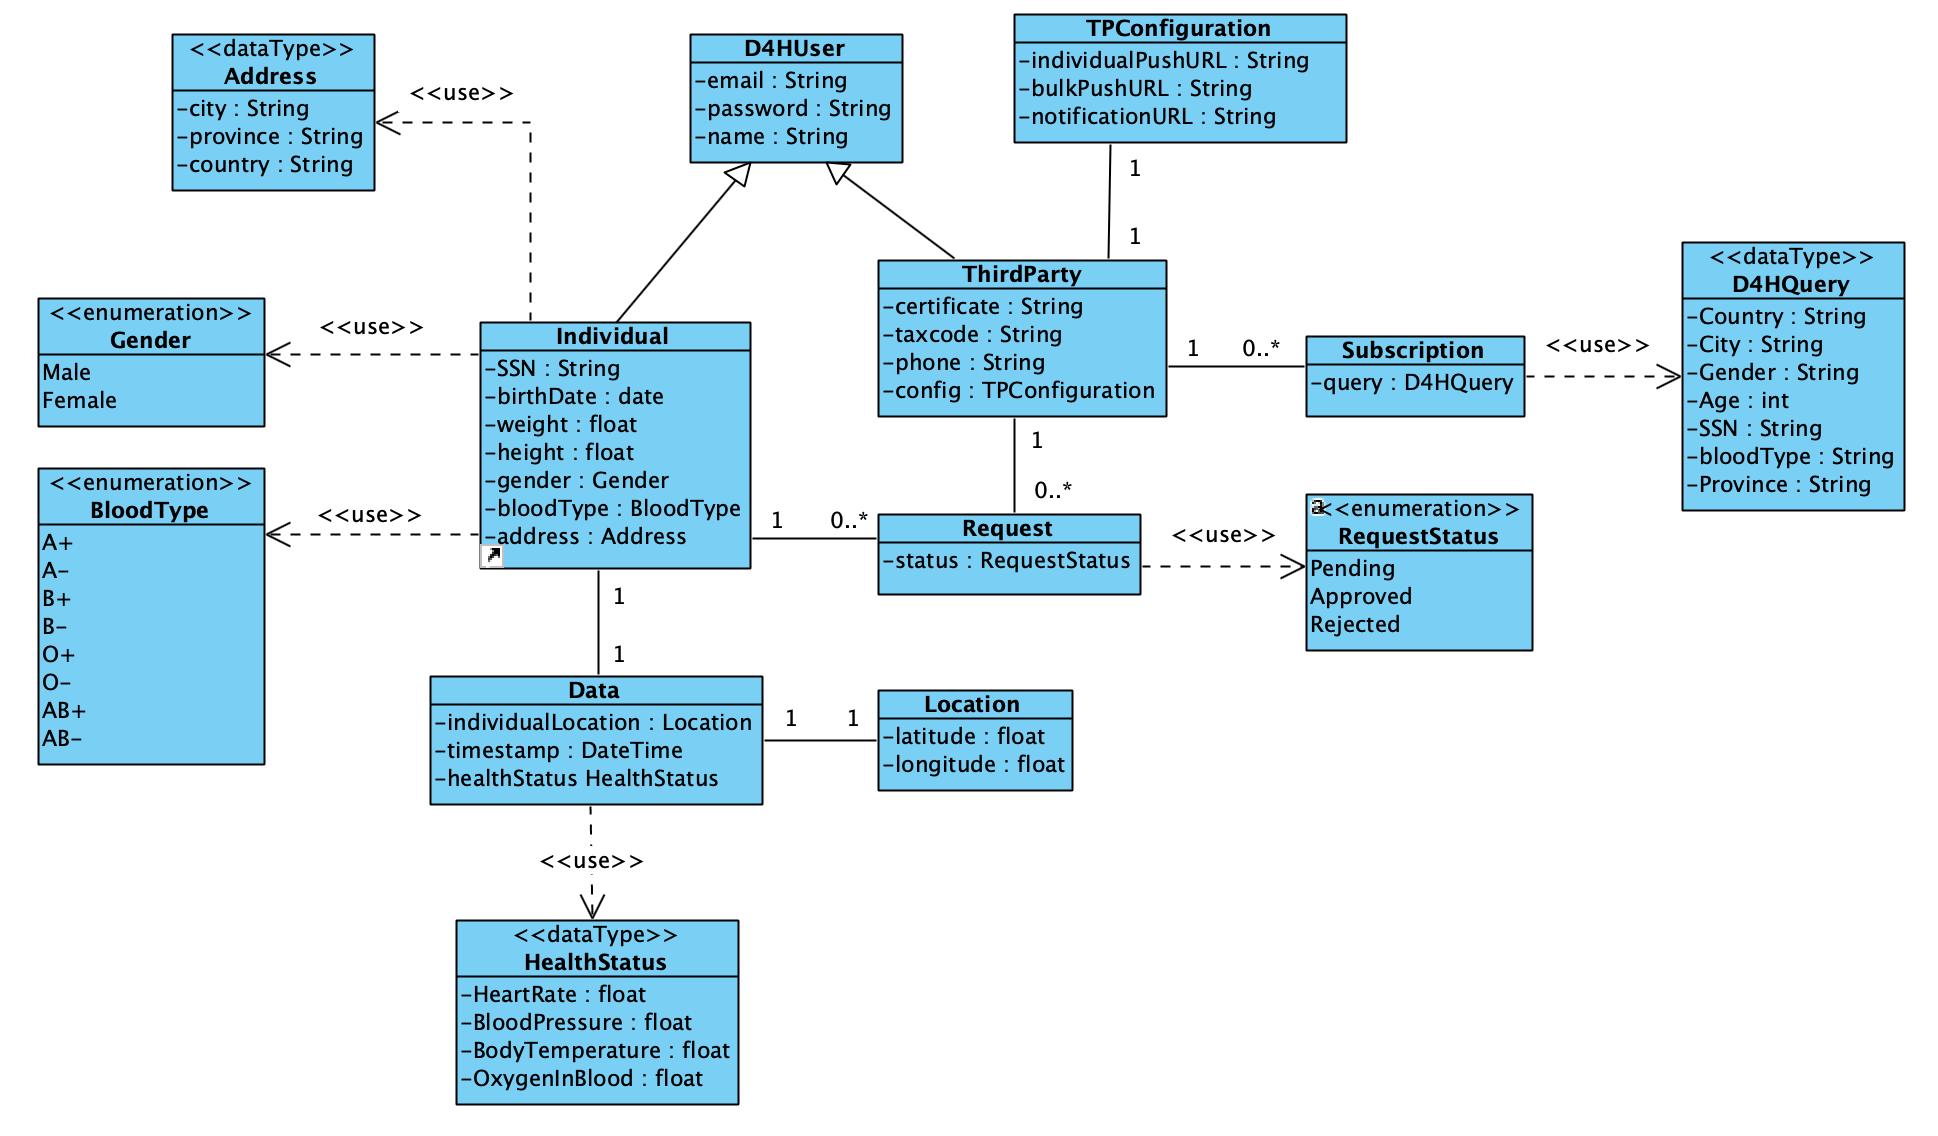
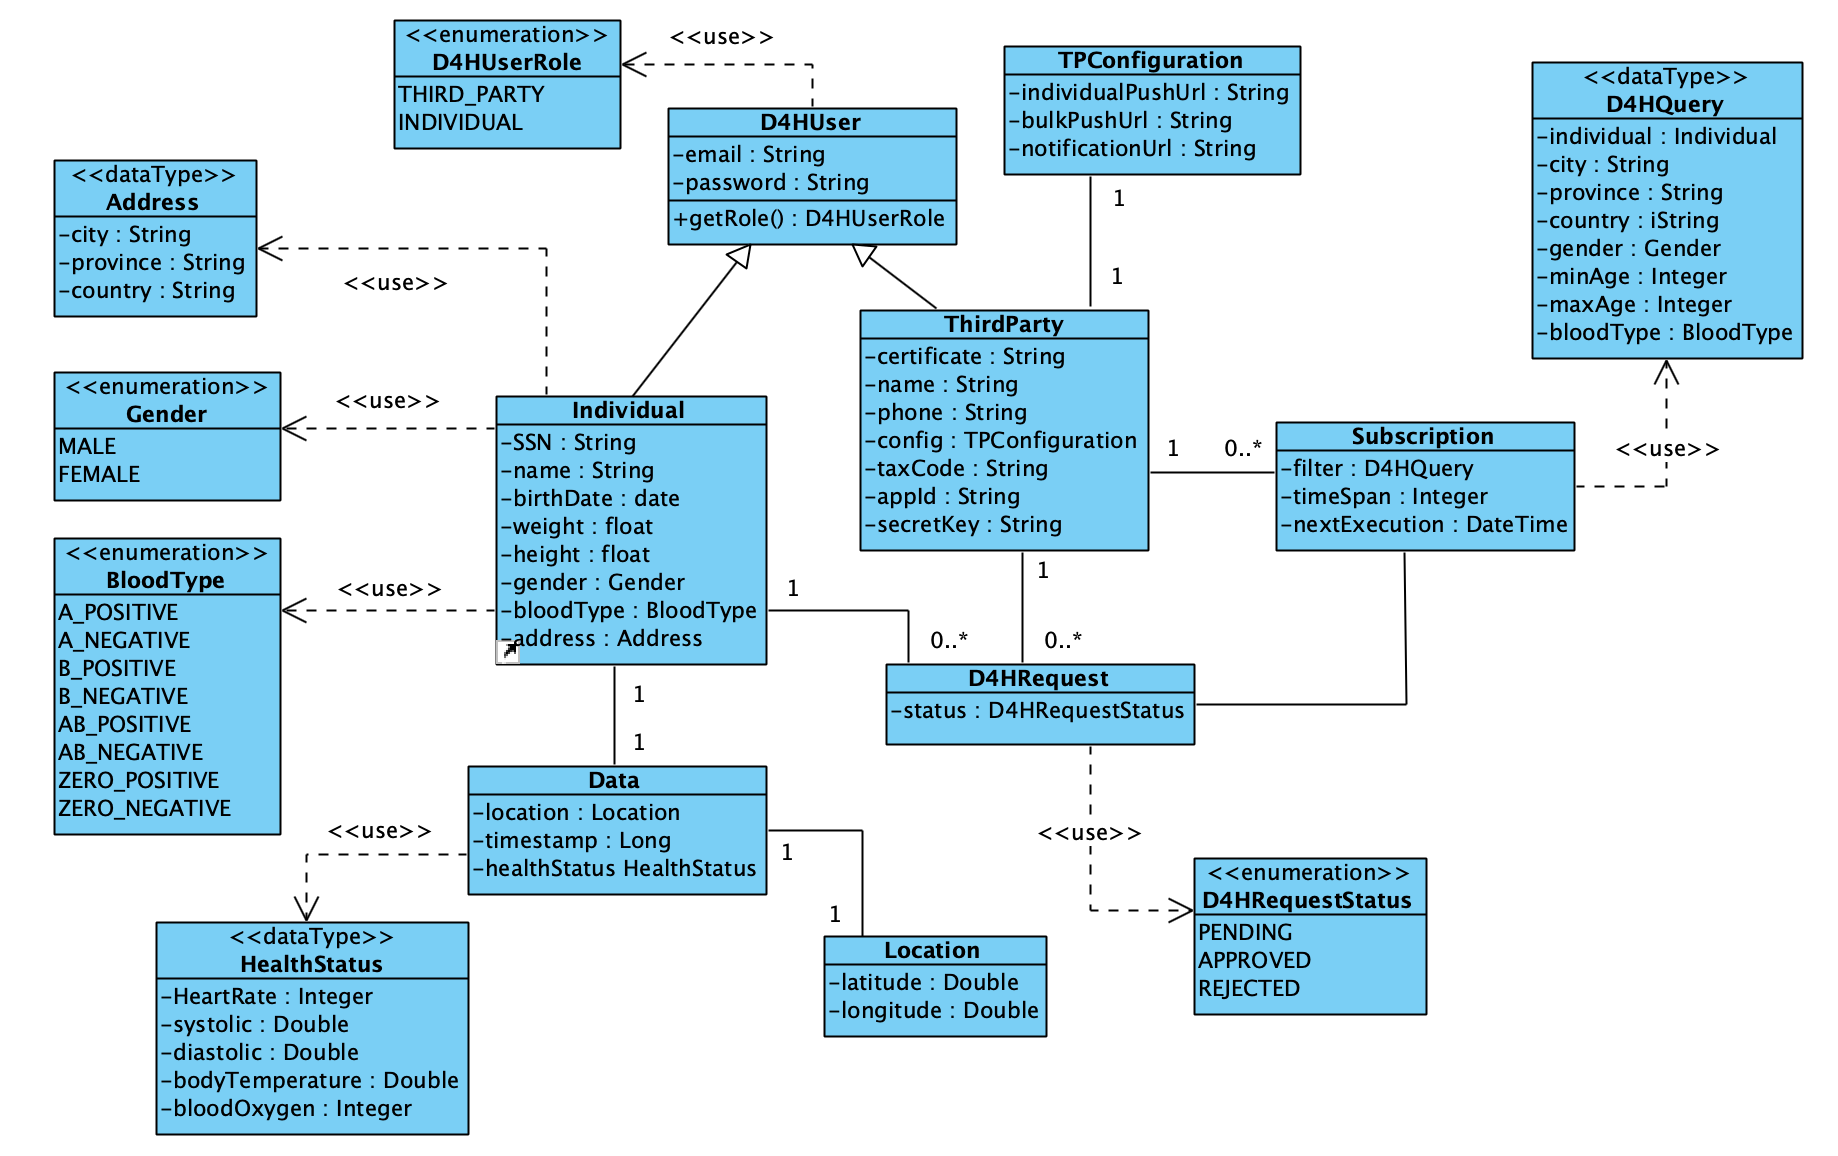
DD: update d4h_class diagram and explanation

diff --git a/DD/DD.tex b/DD/DD.tex
@@ -171,6 +171,7 @@ interface within the next five seconds. The health care service reaction time ca
 		\item{\textbf{Anonymize}}: The action of anonymize means that an individual’s identity cannot
 be inferred using the available data.
 		\item{\textbf{Parameter out of its normal range}}: Meaning that the parameter is under or above a defined threshold. 
+		\item{\textbf{Filter}}
 	\end{itemize}
 	
 	\subsection{Acronyms}
@@ -979,15 +980,19 @@ In the previous section, an architectural landscape of D4H, ASOS and T4R was pro
 	As explained in the RASD, the whole data model of TrackMe up to now will be treated as a "black box", this means \textbf{D4H} will have a local copy of the \textit{basic information} and \textit{collected data} only of users who activated this service. The classes considered in D4H, their attributes, and relationships are shown in Figure \ref{fig:Data4Help Class Diagram}.
 	
 	\begin{itemize}
-		\item{\textbf{User}}: basic attributes of all users interacting with the system.
-		\item{\textbf{Individual}}: users wearing the devices.
-		\item{\textbf{Data}}: health status and location collected from devices.
-		\item{\textbf{ThirdParty}}: companies requesting data of individuals or bulk data. For registering, all third parties must provide a certificate to verify that it is a legally constituted company.
-		\item{\textbf{TPConfiguration}}: an important issue to tackle is the way in which the system will communicate to third parties to send them notifications or the data they request. To send information regarding saved queries, third parties will be asked to provide three endpoints,
-	 \textit{individualpushURL}, \textit{bulkPushURL} and \textit{notificationURL}.
-		\item{\textbf{Request}}: third parties can request data of a given individual. Each request has an associated \textit{status}, initially is \textit{pending} and can become either \textit{rejected} or \textit{approved} according to to whether the individual accepts or not. 
-		\textit{Requests for bulk data} are treated differently. The only constraints to provide that data to third parties are managed by the system (if they do not hold the third party is notified)
-		\item{\textbf{Subscription}}:  third parties can \textit{subscribe} to receive new data, then the query of the search they did needs to be stored. \\
+		\item{\textbf{D4HUser}}: credentials of all users interacting with the system.
+		\item{\textbf{Individual}}: main attributes of users wearing the devices.
+		\item{\textbf{Data}}: health status, location and timestamp collected from devices.
+		\item{\textbf{ThirdParty}}: companies requesting data of individuals or bulk data. For registering, all third parties must provide a certificate to verify that it is a legally constituted company (it was assumed that there is a mechanism capable of doing this checking).
+		
+		\item{\textbf{TPConfiguration}}: an important issue to tackle is the way in which the system will communicate to third parties to send them notifications or data they request. Then, they are asked to provide three endpoints,
+	 \textit{individualpushUrl}, \textit{bulkPushUrl} and \textit{notificationUrl}.
+	 
+		\item{\textbf{D4HRequest}}: third parties can make requests to access data of a given individual. Each request has an associated \textit{status}, initially is \textit{PENDING} and can become either \textit{APPROVED} or \textit{REJECTED} according to whether the individual accepts it or not. \\\\
+		\textbf{**} After the status of a request is updated to \textit{APPROVED}, a subscription to receive new data of the intended individual is automatically created. \\
+		\textbf{**} \textit{Requests for bulk data} are treated differently. The only constraints are managed by the system (if they do not hold the third party is notified), then there is no need to store them.
+		
+		\item{\textbf{Subscription}}: when searching for bulk data, third parties can decide if they want to subscribe to that specific \textit{filter}. This means, they will receive new data after a certain amount of time defined by a \textit{timeSpan} (hours). New data will be send to individuals according to the nextExecution attribute of the subscription.
 	\end{itemize}
 
 	\begin{figure}[H]
